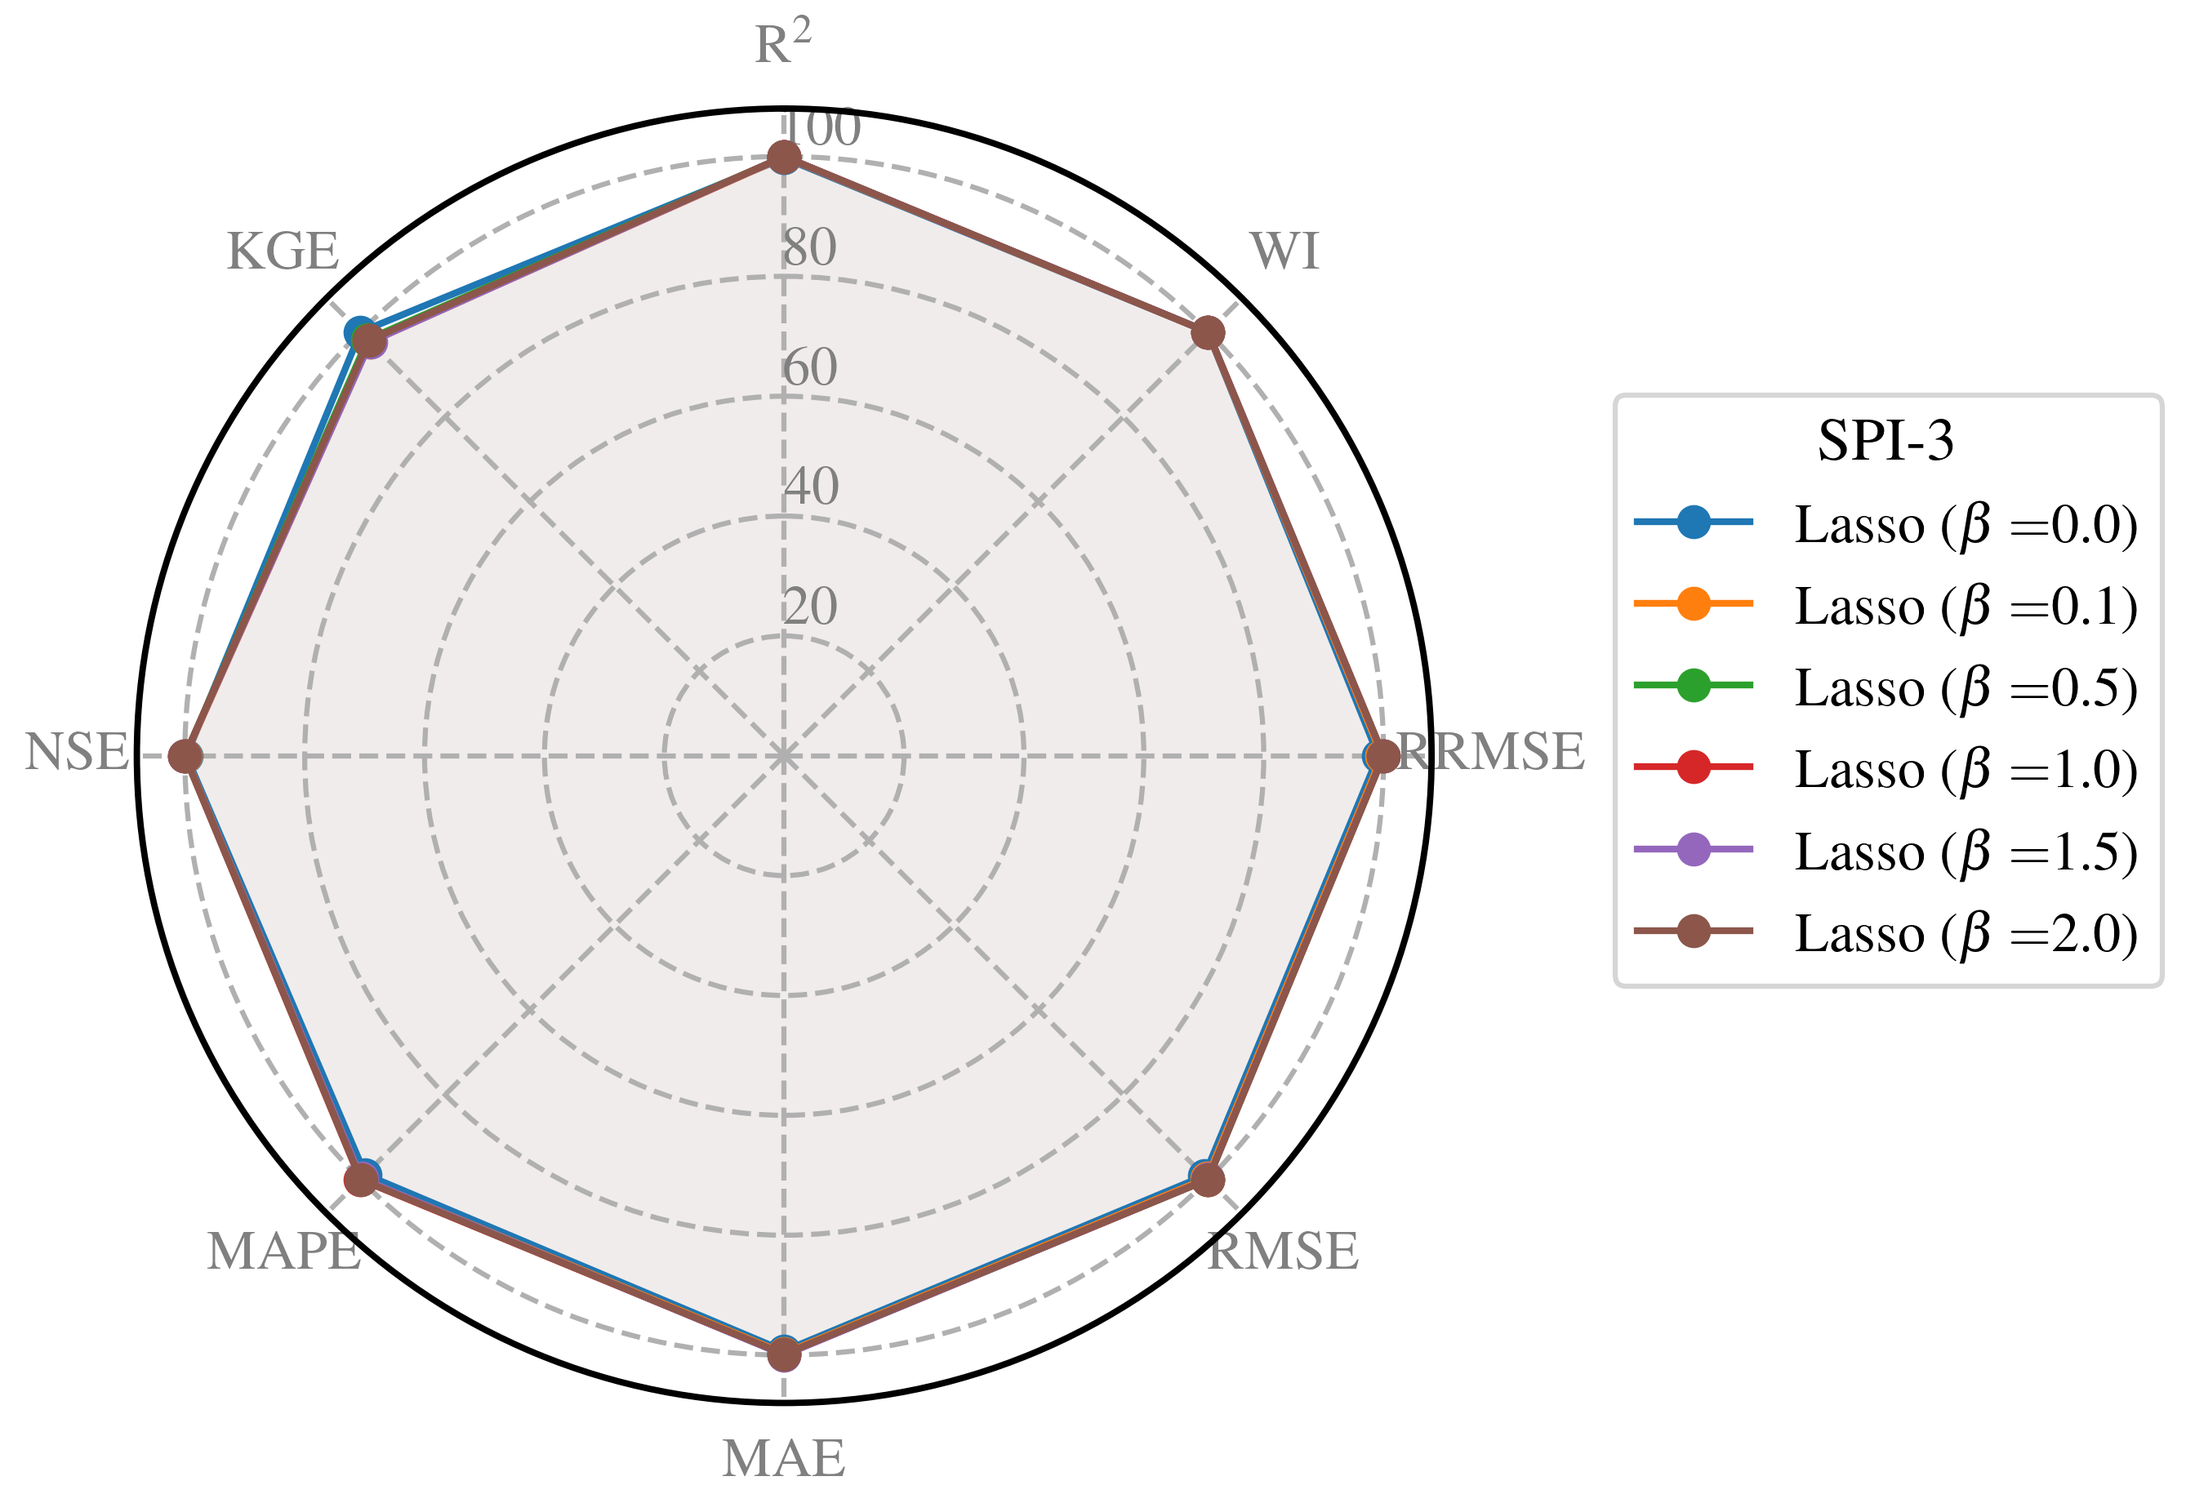
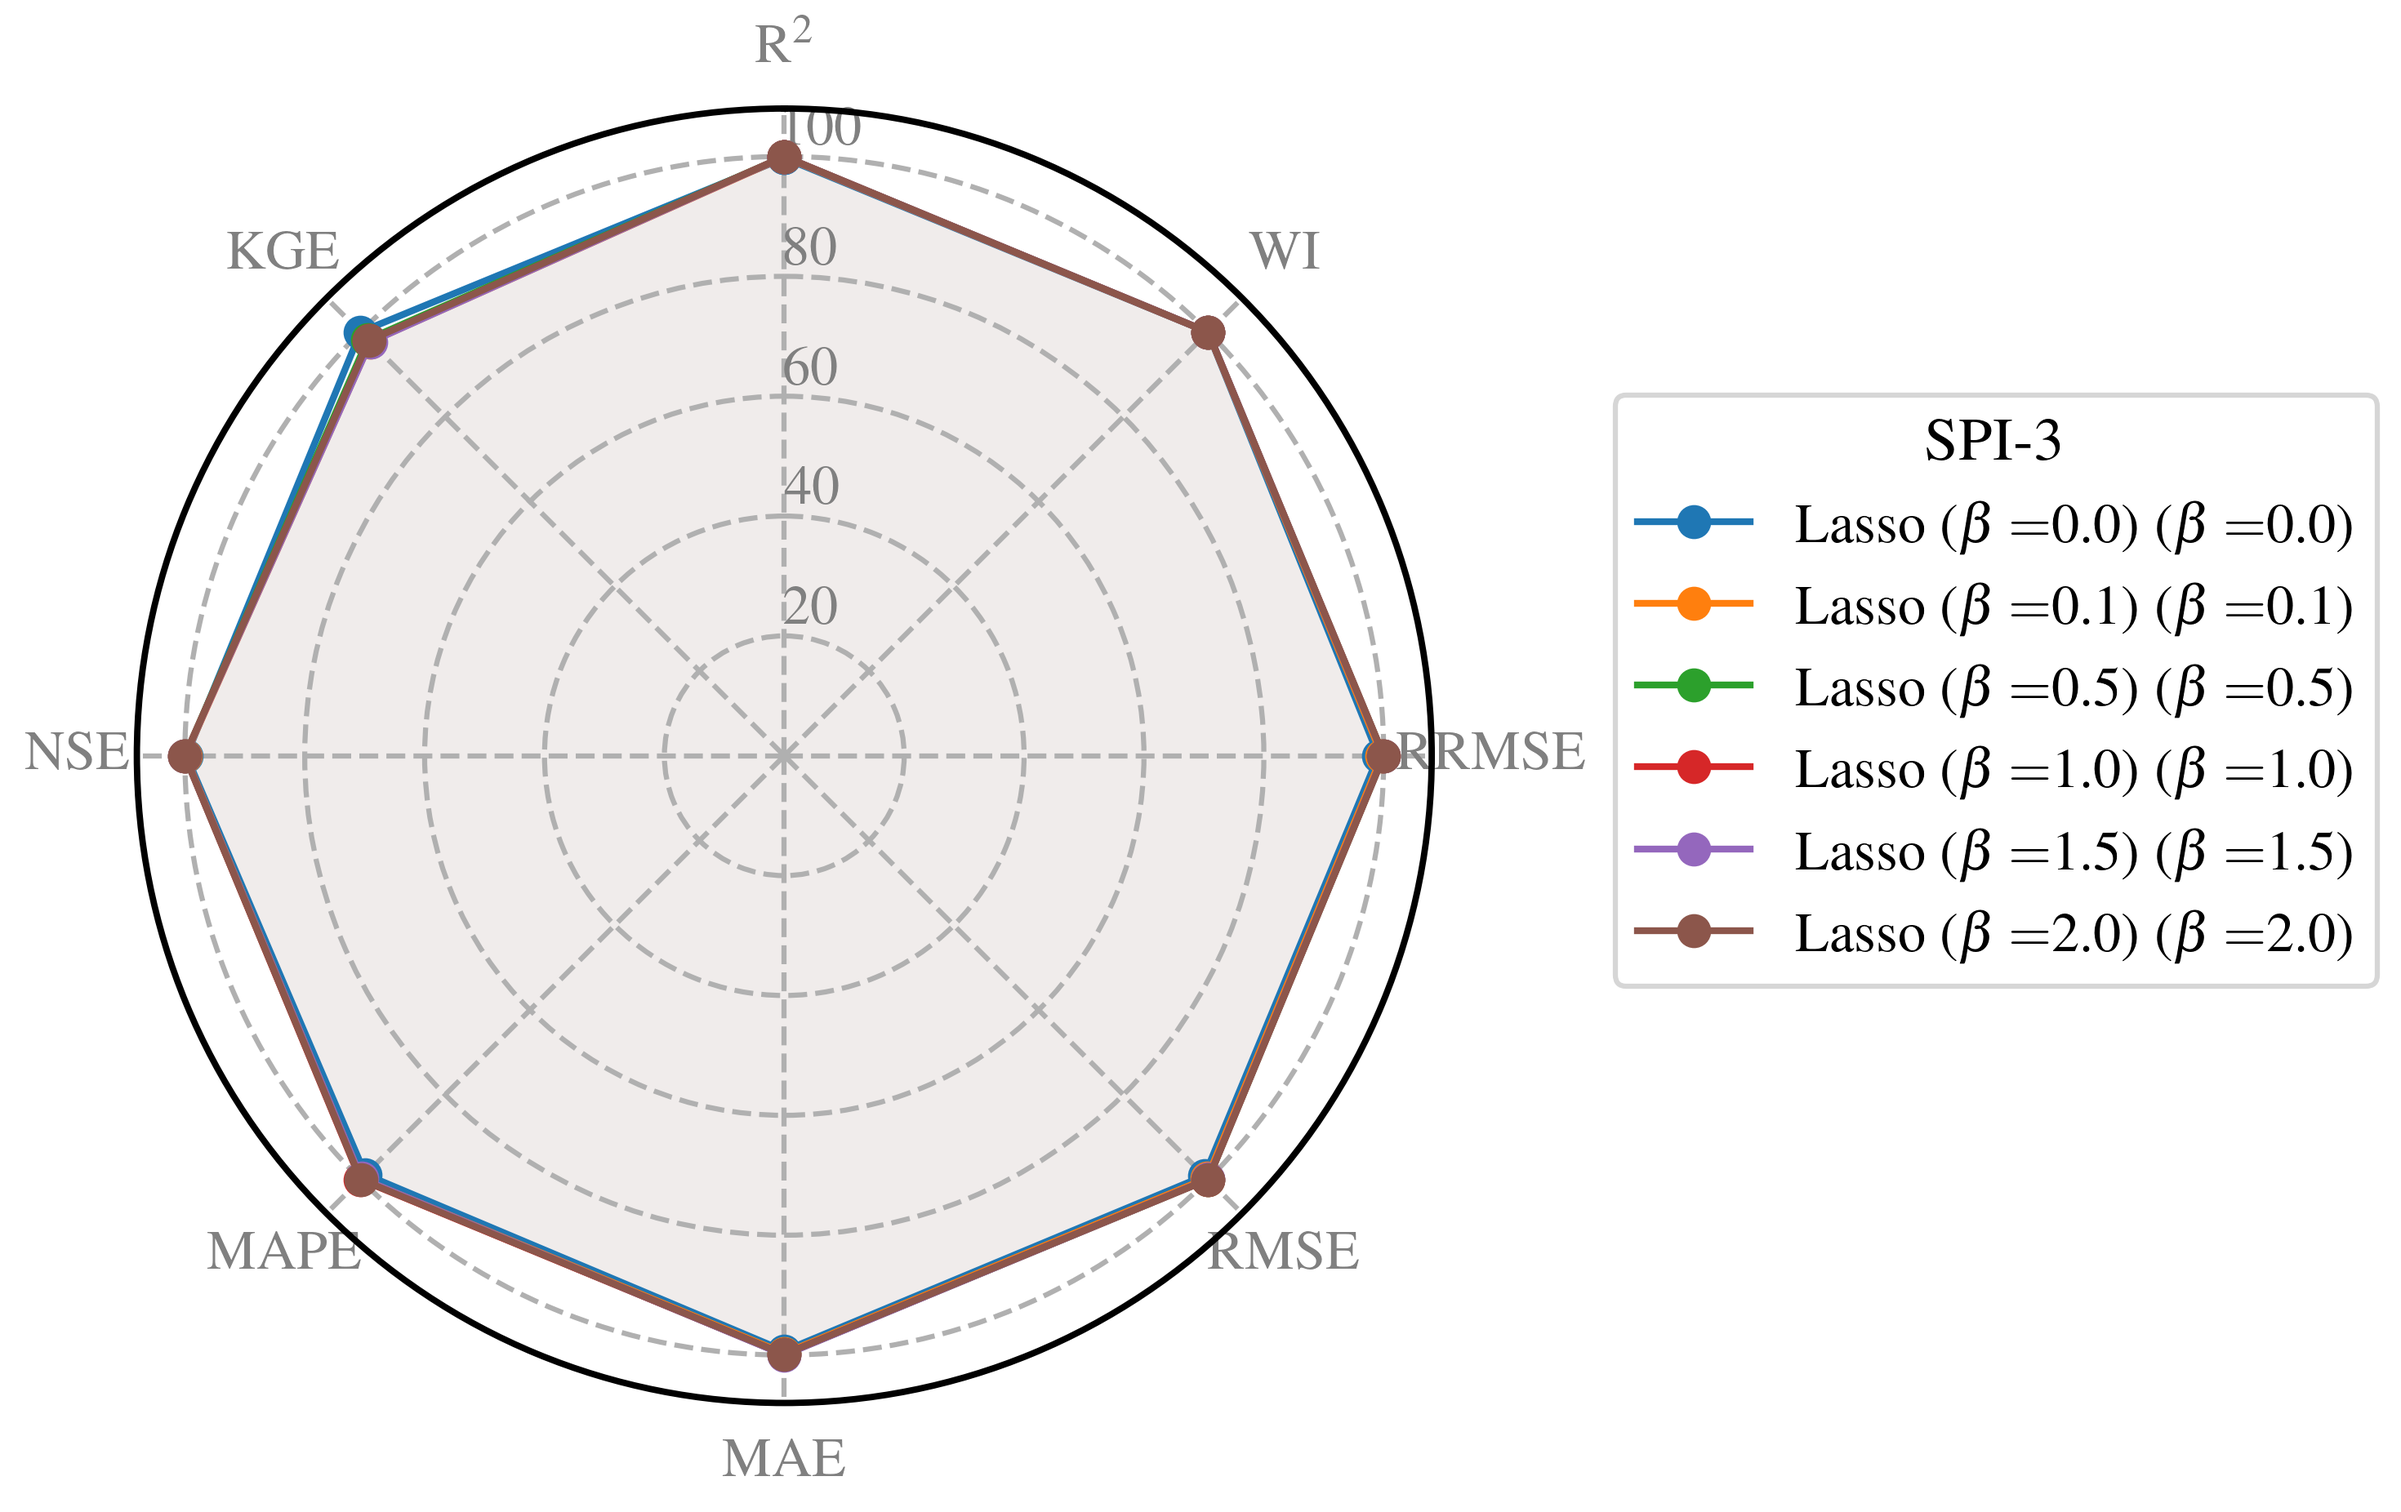
goliatt sáb 15 fev 2025 15:32:18 -03

diff --git a/sp__comparison_datasets_table.tex b/sp__comparison_datasets_table.tex
@@ -4,26 +4,26 @@
 \label{sp__comparison_datasets_table}
 \begin{tabular}{rrrrrrrrrrr}
 \toprule
-Dataset & Estimator &  beta &                R$^2$ &                  WI &               RRMSE &                 RMSE &                  MAE &                  MAPE &                  NSE &                  KGE \\
+Dataset &             Estimator &  beta &                R$^2$ &                  WI &               RRMSE &                 RMSE &                  MAE &                  MAPE &                  NSE &                  KGE \\
 \midrule
-  SPI-3 &     Lasso &   0.0 &        0.876 (0.002) &        0.966 (0.00) &        2.36 (0.020) &        0.353 (0.003) &        0.273 (0.002) &          70.94 (1.50) &        0.876 (0.002) & { \bf 0.709} (0.088) \\
-  SPI-3 &     Lasso &   0.1 &        0.877 (0.002) & { \bf 0.967} (0.00) &        2.35 (0.015) &        0.351 (0.002) &        0.272 (0.001) &         70.25 (0.808) &        0.877 (0.002) &        0.693 (0.045) \\
-  SPI-3 &     Lasso &   0.5 &  { \bf 0.878} (0.00) &        0.967 (0.00) & { \bf 2.34} (0.004) &  { \bf 0.350} (0.00) &        0.272 (0.001) &         70.17 (0.503) &  { \bf 0.878} (0.00) &        0.697 (0.017) \\
-  SPI-3 &     Lasso &   1.0 &         0.878 (0.00) &        0.967 (0.00) &        2.34 (0.007) &        0.350 (0.001) &        0.272 (0.001) &  { \bf 70.10} (0.614) &         0.878 (0.00) &        0.695 (0.019) \\
-  SPI-3 &     Lasso &   1.5 &         0.878 (0.00) &        0.967 (0.00) &         2.34 (0.00) &         0.350 (0.00) &  { \bf 0.271} (0.00) &         70.27 (0.436) &         0.878 (0.00) &        0.693 (0.005) \\
-  SPI-3 &     Lasso &   2.0 &         0.878 (0.00) &        0.967 (0.00) &        2.34 (0.002) &         0.350 (0.00) &        0.272 (0.001) &         70.13 (0.573) &         0.878 (0.00) &        0.695 (0.008) \\
-  SPI-6 &     Lasso &   0.0 &        0.897 (0.002) & { \bf 0.973} (0.00) & { \bf 1.70} (0.018) & { \bf 0.353} (0.004) &        0.292 (0.004) &         101.98 (1.56) &        0.897 (0.002) &        0.809 (0.047) \\
-  SPI-6 &     Lasso &   0.1 & { \bf 0.898} (0.006) &       0.973 (0.001) &        1.70 (0.046) &        0.353 (0.010) &        0.291 (0.007) &  { \bf 100.30} (3.45) & { \bf 0.898} (0.006) & { \bf 0.851} (0.083) \\
-  SPI-6 &     Lasso &   0.5 &        0.895 (0.002) &        0.972 (0.00) &        1.72 (0.015) &        0.357 (0.003) & { \bf 0.286} (0.002) &         109.67 (2.60) &        0.895 (0.002) &        0.662 (0.048) \\
-  SPI-6 &     Lasso &   1.0 &         0.895 (0.00) &        0.972 (0.00) &        1.72 (0.001) &         0.357 (0.00) &         0.286 (0.00) &        110.15 (0.389) &         0.895 (0.00) &        0.654 (0.002) \\
-  SPI-6 &     Lasso &   1.5 &        0.895 (0.001) &        0.972 (0.00) &        1.72 (0.011) &        0.357 (0.002) &         0.286 (0.00) &         109.64 (2.50) &        0.895 (0.001) &        0.663 (0.048) \\
-  SPI-6 &     Lasso &   2.0 &        0.895 (0.001) &        0.972 (0.00) &        1.72 (0.010) &        0.357 (0.002) &         0.286 (0.00) &         109.52 (2.46) &        0.895 (0.001) &        0.664 (0.046) \\
- SPI-12 &     Lasso &   0.0 &        0.902 (0.003) &       0.972 (0.001) &        1.22 (0.022) &        0.349 (0.006) &        0.285 (0.005) &         123.01 (8.32) &        0.902 (0.003) &        0.712 (0.067) \\
- SPI-12 &     Lasso &   0.1 &        0.907 (0.005) &       0.974 (0.002) &        1.19 (0.032) &        0.340 (0.009) &        0.278 (0.007) &         117.01 (5.16) &        0.907 (0.005) &        0.774 (0.103) \\
- SPI-12 &     Lasso &   0.5 &  { \bf 0.914} (0.00) & { \bf 0.977} (0.00) & { \bf 1.14} (0.002) &  { \bf 0.326} (0.00) &  { \bf 0.268} (0.00) &         113.14 (1.01) &  { \bf 0.914} (0.00) & { \bf 0.911} (0.012) \\
- SPI-12 &     Lasso &   1.0 &        0.913 (0.003) &        0.977 (0.00) &        1.15 (0.018) &        0.328 (0.005) &        0.269 (0.003) &         112.01 (5.49) &        0.913 (0.003) &        0.892 (0.060) \\
- SPI-12 &     Lasso &   1.5 &        0.913 (0.004) &       0.977 (0.001) &        1.15 (0.025) &        0.329 (0.007) &        0.269 (0.005) &         111.30 (6.51) &        0.913 (0.004) &        0.881 (0.077) \\
- SPI-12 &     Lasso &   2.0 &        0.911 (0.006) &       0.977 (0.001) &        1.16 (0.038) &        0.332 (0.011) &        0.271 (0.006) & { \bf 106.86} (11.45) &        0.911 (0.006) &        0.845 (0.117) \\
+  SPI-3 & Lasso ($\beta = $0.0) &   0.0 &        0.876 (0.002) &        0.966 (0.00) &        2.36 (0.020) &        0.353 (0.003) &        0.273 (0.002) &          70.94 (1.50) &        0.876 (0.002) & { \bf 0.709} (0.088) \\
+  SPI-3 & Lasso ($\beta = $0.1) &   0.1 &        0.877 (0.002) & { \bf 0.967} (0.00) &        2.35 (0.015) &        0.351 (0.002) &        0.272 (0.001) &         70.25 (0.808) &        0.877 (0.002) &        0.693 (0.045) \\
+  SPI-3 & Lasso ($\beta = $0.5) &   0.5 &  { \bf 0.878} (0.00) &        0.967 (0.00) & { \bf 2.34} (0.004) &  { \bf 0.350} (0.00) &        0.272 (0.001) &         70.17 (0.503) &  { \bf 0.878} (0.00) &        0.697 (0.017) \\
+  SPI-3 & Lasso ($\beta = $1.0) &   1.0 &         0.878 (0.00) &        0.967 (0.00) &        2.34 (0.007) &        0.350 (0.001) &        0.272 (0.001) &  { \bf 70.10} (0.614) &         0.878 (0.00) &        0.695 (0.019) \\
+  SPI-3 & Lasso ($\beta = $1.5) &   1.5 &         0.878 (0.00) &        0.967 (0.00) &         2.34 (0.00) &         0.350 (0.00) &  { \bf 0.271} (0.00) &         70.27 (0.436) &         0.878 (0.00) &        0.693 (0.005) \\
+  SPI-3 & Lasso ($\beta = $2.0) &   2.0 &         0.878 (0.00) &        0.967 (0.00) &        2.34 (0.002) &         0.350 (0.00) &        0.272 (0.001) &         70.13 (0.573) &         0.878 (0.00) &        0.695 (0.008) \\
+  SPI-6 & Lasso ($\beta = $0.0) &   0.0 &        0.897 (0.002) & { \bf 0.973} (0.00) & { \bf 1.70} (0.018) & { \bf 0.353} (0.004) &        0.292 (0.004) &         101.98 (1.56) &        0.897 (0.002) &        0.809 (0.047) \\
+  SPI-6 & Lasso ($\beta = $0.1) &   0.1 & { \bf 0.898} (0.006) &       0.973 (0.001) &        1.70 (0.046) &        0.353 (0.010) &        0.291 (0.007) &  { \bf 100.30} (3.45) & { \bf 0.898} (0.006) & { \bf 0.851} (0.083) \\
+  SPI-6 & Lasso ($\beta = $0.5) &   0.5 &        0.895 (0.002) &        0.972 (0.00) &        1.72 (0.015) &        0.357 (0.003) & { \bf 0.286} (0.002) &         109.67 (2.60) &        0.895 (0.002) &        0.662 (0.048) \\
+  SPI-6 & Lasso ($\beta = $1.0) &   1.0 &         0.895 (0.00) &        0.972 (0.00) &        1.72 (0.001) &         0.357 (0.00) &         0.286 (0.00) &        110.15 (0.389) &         0.895 (0.00) &        0.654 (0.002) \\
+  SPI-6 & Lasso ($\beta = $1.5) &   1.5 &        0.895 (0.001) &        0.972 (0.00) &        1.72 (0.011) &        0.357 (0.002) &         0.286 (0.00) &         109.64 (2.50) &        0.895 (0.001) &        0.663 (0.048) \\
+  SPI-6 & Lasso ($\beta = $2.0) &   2.0 &        0.895 (0.001) &        0.972 (0.00) &        1.72 (0.010) &        0.357 (0.002) &         0.286 (0.00) &         109.52 (2.46) &        0.895 (0.001) &        0.664 (0.046) \\
+ SPI-12 & Lasso ($\beta = $0.0) &   0.0 &        0.902 (0.003) &       0.972 (0.001) &        1.22 (0.022) &        0.349 (0.006) &        0.285 (0.005) &         123.01 (8.32) &        0.902 (0.003) &        0.712 (0.067) \\
+ SPI-12 & Lasso ($\beta = $0.1) &   0.1 &        0.907 (0.005) &       0.974 (0.002) &        1.19 (0.032) &        0.340 (0.009) &        0.278 (0.007) &         117.01 (5.16) &        0.907 (0.005) &        0.774 (0.103) \\
+ SPI-12 & Lasso ($\beta = $0.5) &   0.5 &  { \bf 0.914} (0.00) & { \bf 0.977} (0.00) & { \bf 1.14} (0.002) &  { \bf 0.326} (0.00) &  { \bf 0.268} (0.00) &         113.14 (1.01) &  { \bf 0.914} (0.00) & { \bf 0.911} (0.012) \\
+ SPI-12 & Lasso ($\beta = $1.0) &   1.0 &        0.913 (0.003) &        0.977 (0.00) &        1.15 (0.018) &        0.328 (0.005) &        0.269 (0.003) &         112.01 (5.49) &        0.913 (0.003) &        0.892 (0.060) \\
+ SPI-12 & Lasso ($\beta = $1.5) &   1.5 &        0.913 (0.004) &       0.977 (0.001) &        1.15 (0.025) &        0.329 (0.007) &        0.269 (0.005) &         111.30 (6.51) &        0.913 (0.004) &        0.881 (0.077) \\
+ SPI-12 & Lasso ($\beta = $2.0) &   2.0 &        0.911 (0.006) &       0.977 (0.001) &        1.16 (0.038) &        0.332 (0.011) &        0.271 (0.006) & { \bf 106.86} (11.45) &        0.911 (0.006) &        0.845 (0.117) \\
 \bottomrule
 \end{tabular}
 \end{table}

diff --git a/expressions.tex b/expressions.tex
@@ -1,0 +1,24 @@
+\begin{tabular}{llrrl}
+\toprule
+Dataset &                            Parameters &  No. var. &  RMSE &                                         Expression \\
+\midrule
+  SPI-3 & Lasso (\$\textbackslash beta = \$0.0) (\$\textbackslash beta = \$0.0) &         5 & 0.348 & x\_\{1\} \textbackslash cdot \textbackslash left(0.065438 x\_\{4\} - 0.031779 x\_\{... \\
+  SPI-3 & Lasso (\$\textbackslash beta = \$0.1) (\$\textbackslash beta = \$0.1) &         3 & 0.348 & 0.455642 x\_\{2\} + x\_\{4\} \textbackslash cdot \textbackslash left(0.501748 - 0... \\
+  SPI-3 & Lasso (\$\textbackslash beta = \$0.5) (\$\textbackslash beta = \$0.5) &         3 & 0.347 & 0.449359 x\_\{2\} + 0.057424 x\_\{3\} + 0.475391 x\_\{4... \\
+  SPI-3 & Lasso (\$\textbackslash beta = \$1.0) (\$\textbackslash beta = \$1.0) &         4 & 0.347 & 0.447717 x\_\{2\} + x\_\{3\} \textbackslash cdot \textbackslash left(0.056808 - \textbackslash ... \\
+  SPI-3 & Lasso (\$\textbackslash beta = \$1.5) (\$\textbackslash beta = \$1.5) &         3 & 0.349 & 0.454934 x\_\{2\} + x\_\{4\} \textbackslash cdot \textbackslash left(0.502252 - \textbackslash ... \\
+  SPI-3 & Lasso (\$\textbackslash beta = \$2.0) (\$\textbackslash beta = \$2.0) &         2 & 0.349 &         0.451833 x\_\{2\} + 0.495976 x\_\{4\} + 0.016304 \\
+  SPI-6 & Lasso (\$\textbackslash beta = \$0.0) (\$\textbackslash beta = \$0.0) &         5 & 0.349 & x\_\{1\} \textbackslash cdot \textbackslash left(0.045872 x\_\{2\} + 0.020121 x\_\{... \\
+  SPI-6 & Lasso (\$\textbackslash beta = \$0.1) (\$\textbackslash beta = \$0.1) &         5 & 0.346 & x\_\{2\} \textbackslash cdot \textbackslash left(0.490102 - 0.017279 x\_\{3\}\textbackslash rig... \\
+  SPI-6 & Lasso (\$\textbackslash beta = \$0.5) (\$\textbackslash beta = \$0.5) &         3 & 0.346 & 0.490587 x\_\{2\} + 0.55039 x\_\{4\} - 0.107172 x\_\{5\}... \\
+  SPI-6 & Lasso (\$\textbackslash beta = \$1.0) (\$\textbackslash beta = \$1.0) &         3 & 0.357 & 0.481616 x\_\{2\} + x\_\{4\} \textbackslash cdot \textbackslash left(0.50263 + \textbackslash f... \\
+  SPI-6 & Lasso (\$\textbackslash beta = \$1.5) (\$\textbackslash beta = \$1.5) &         4 & 0.345 & x\_\{2\} \textbackslash cdot \textbackslash left(0.487884 - 0.003141 x\_\{3\}\textbackslash rig... \\
+  SPI-6 & Lasso (\$\textbackslash beta = \$2.0) (\$\textbackslash beta = \$2.0) &         3 & 0.346 & 0.490585 x\_\{2\} + 0.550387 x\_\{4\} - 0.107168 x\_\{5... \\
+ SPI-12 & Lasso (\$\textbackslash beta = \$0.0) (\$\textbackslash beta = \$0.0) &         5 & 0.328 & x\_\{1\} \textbackslash cdot \textbackslash left(0.051353 x\_\{4\} - 0.038817 x\_\{... \\
+ SPI-12 & Lasso (\$\textbackslash beta = \$0.1) (\$\textbackslash beta = \$0.1) &         4 & 0.324 & 0.470079 x\_\{2\} - \textbackslash frac\{0.000222 x\_\{3\}\}\{x\_\{4\}\} +... \\
+ SPI-12 & Lasso (\$\textbackslash beta = \$0.5) (\$\textbackslash beta = \$0.5) &         3 & 0.325 & 0.476589 x\_\{2\} + 0.588741 x\_\{4\} - 0.15268 x\_\{5\}... \\
+ SPI-12 & Lasso (\$\textbackslash beta = \$1.0) (\$\textbackslash beta = \$1.0) &         3 & 0.325 & 0.47658 x\_\{2\} + 0.588731 x\_\{4\} - 0.152665 x\_\{5\}... \\
+ SPI-12 & Lasso (\$\textbackslash beta = \$1.5) (\$\textbackslash beta = \$1.5) &         3 & 0.325 & 0.475971 x\_\{2\} + 0.587893 x\_\{4\} - 0.151498 x\_\{5... \\
+ SPI-12 & Lasso (\$\textbackslash beta = \$2.0) (\$\textbackslash beta = \$2.0) &         4 & 0.319 & 0.466306 x\_\{2\} + 0.590777 x\_\{4\} + x\_\{5\} \textbackslash left(-... \\
+\bottomrule
+\end{tabular}
